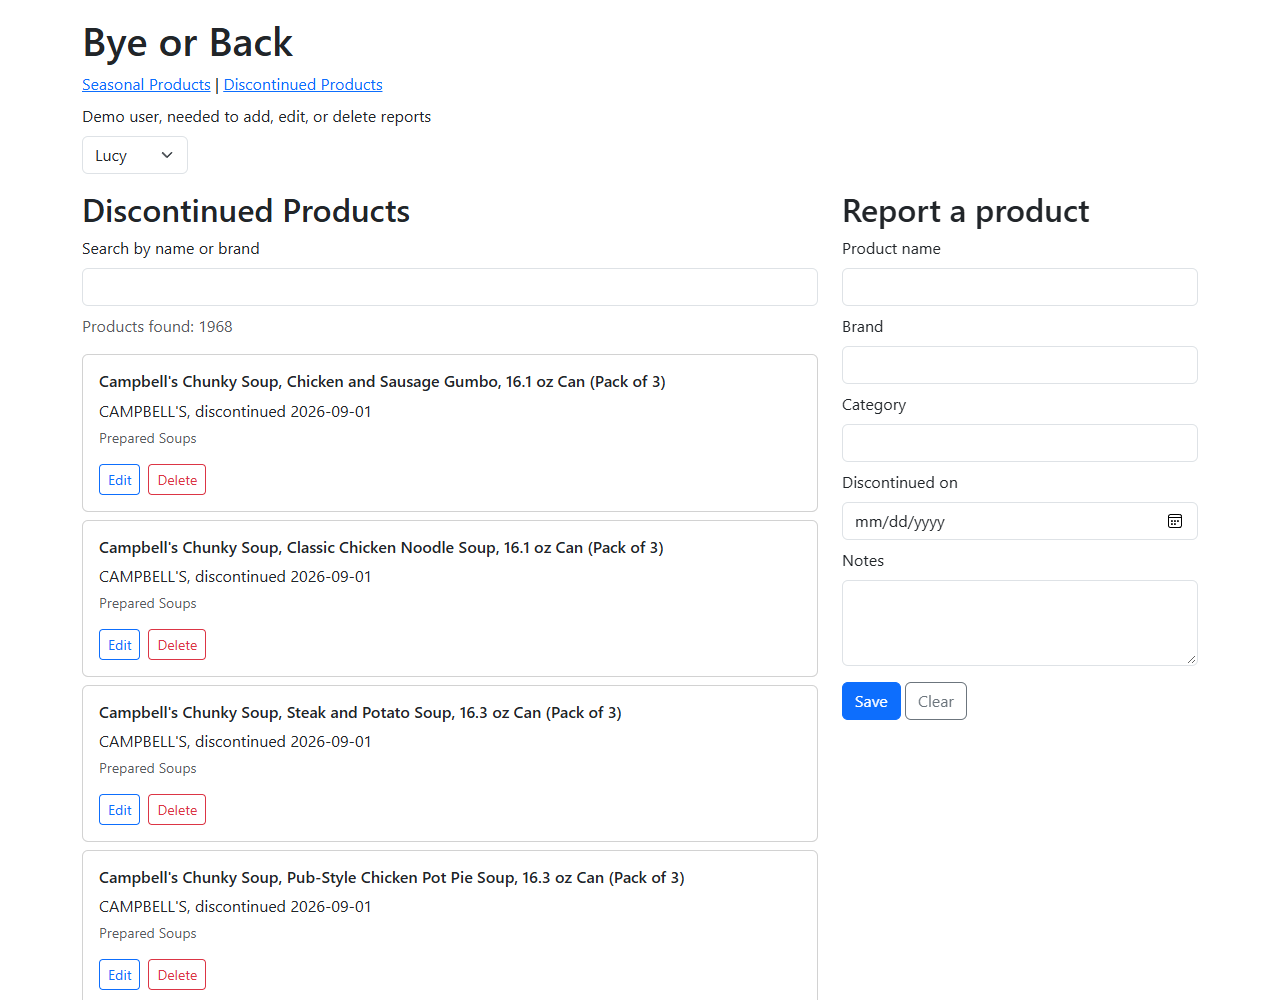
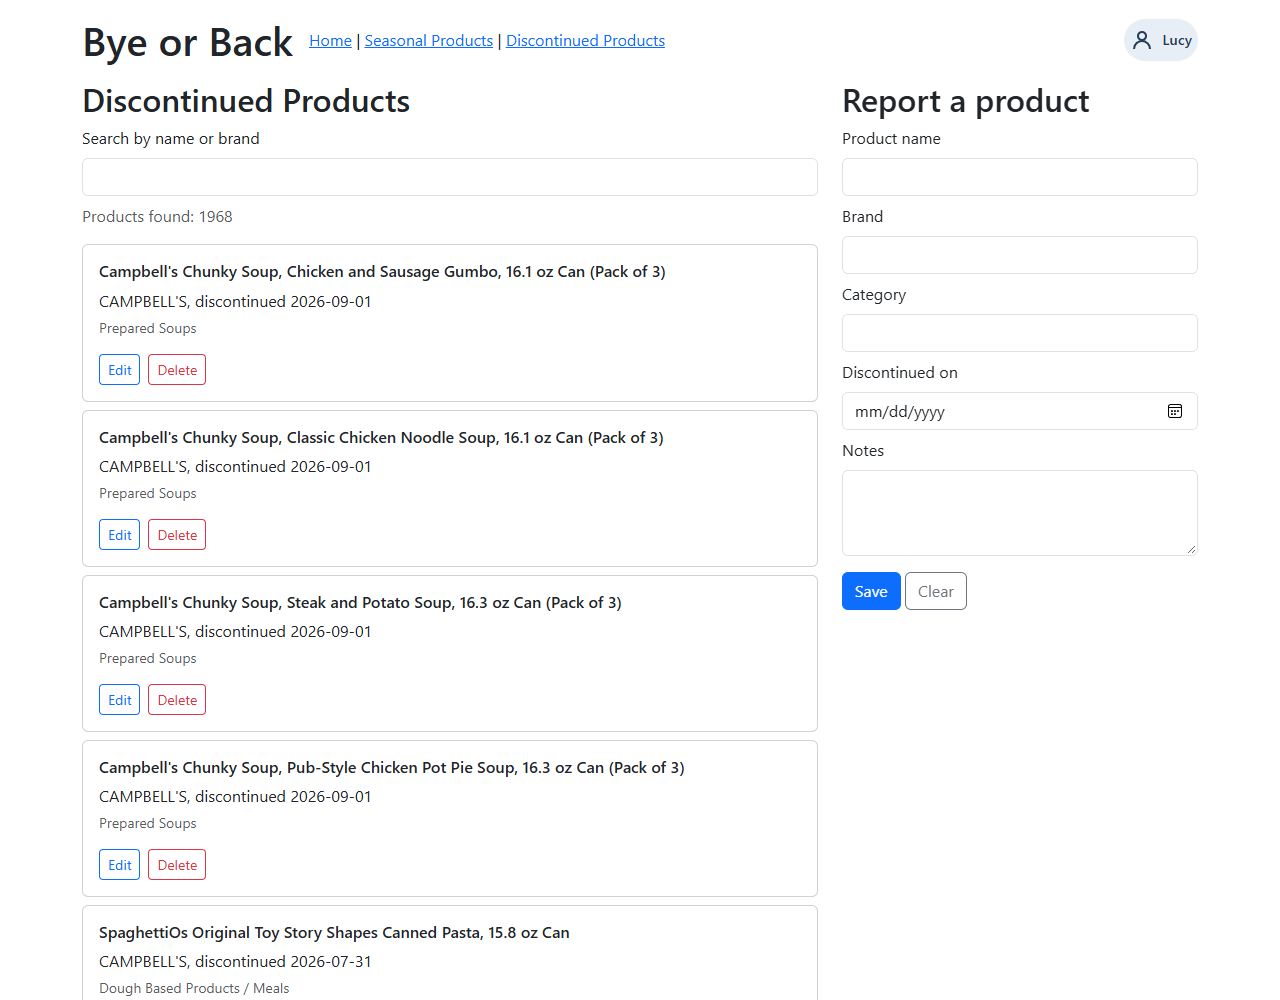
Use the shared demo user menu on the discontinued page

diff --git a/public/js/discontinued.js b/public/js/discontinued.js
@@ -1,3 +1,5 @@
+import { initDemoUser, getCurrentUser, onDemoUserChange } from "./demo-user.js";
+
 function DiscontinuedProducts() {
   const me = {};
   const pageSize = 20;
@@ -8,7 +10,6 @@ function DiscontinuedProducts() {
   const formSearch = document.querySelector("#formSearch");
   const formProduct = document.querySelector("#formProduct");
   const formTitle = document.querySelector("#formTitle");
-  const demoUser = document.querySelector("#demoUser");
 
   me.showMessage = (message, type = "danger") => {
     const wrapper = document.createElement("div");
@@ -19,12 +20,10 @@ function DiscontinuedProducts() {
     document.querySelector("#messages").append(wrapper);
   };
 
-  // The demo user lives in sessionStorage, shared with the seasonal page
-  const onChangeUser = () => {
-    if (demoUser.value) sessionStorage.setItem("demoUser", demoUser.value);
-    else sessionStorage.removeItem("demoUser");
-    document.body.classList.toggle("no-user", !demoUser.value);
-    if (!demoUser.value) formProduct.reset();
+  // Shows the report tools only while a demo user is chosen
+  const onChangeUser = (user) => {
+    document.body.classList.toggle("no-user", !user);
+    if (!user) formProduct.reset();
   };
 
   // Returns a callback that loads the product into the form
@@ -149,7 +148,7 @@ function DiscontinuedProducts() {
         headers: { "Content-Type": "application/json" },
         body: JSON.stringify({
           ...Object.fromEntries(new FormData(formProduct)),
-          editedBy: demoUser.value,
+          editedBy: getCurrentUser(),
         }),
       },
     );
@@ -175,13 +174,13 @@ function DiscontinuedProducts() {
     page = 1;
     me.reloadProducts();
   });
-  demoUser.addEventListener("change", onChangeUser);
-  demoUser.value = sessionStorage.getItem("demoUser") ?? "";
-  onChangeUser();
+  onDemoUserChange(onChangeUser);
+  onChangeUser(getCurrentUser());
 
   return me;
 }
 
 const discontinuedProducts = DiscontinuedProducts();
 
+initDemoUser();
 discontinuedProducts.reloadProducts();

diff --git a/public/discontinued.html b/public/discontinued.html
@@ -14,30 +14,21 @@
       integrity="sha384-sRIl4kxILFvY47J16cr9ZwB07vP4J8+LH7qKQnuqkuIAvNWLzeN8tE5YBujZqJLB"
       crossorigin="anonymous"
     />
+    <link rel="stylesheet" href="./css/demo-user.css" />
     <link rel="stylesheet" href="./css/discontinued.css" />
   </head>
   <body>
     <div class="container">
-      <header class="py-3">
-        <h1>Bye or Back</h1>
+      <header class="py-3 d-flex flex-wrap align-items-center gap-3">
+        <h1 class="mb-0">Bye or Back</h1>
         <nav aria-label="Main navigation">
+          <a href="index.html">Home</a> |
           <a href="seasonal.html">Seasonal Products</a> |
           <a href="discontinued.html" aria-current="page">
             Discontinued Products
           </a>
         </nav>
-        <div class="mt-2">
-          <label for="demoUser" class="form-label">
-            Demo user, needed to add, edit, or delete reports
-          </label>
-          <select id="demoUser" class="form-select w-auto">
-            <option value="">No user</option>
-            <option>Priya</option>
-            <option>Lucy</option>
-            <option>Tom</option>
-            <option>Ben</option>
-          </select>
-        </div>
+        <div id="demo-user-container"></div>
       </header>
 
       <main>
